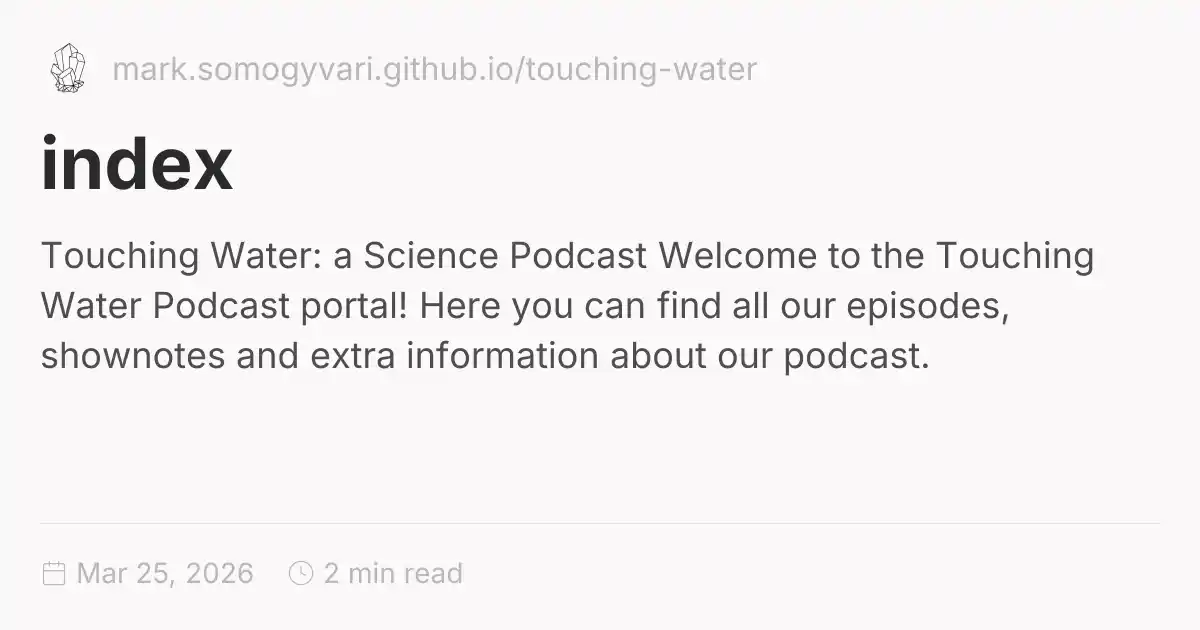
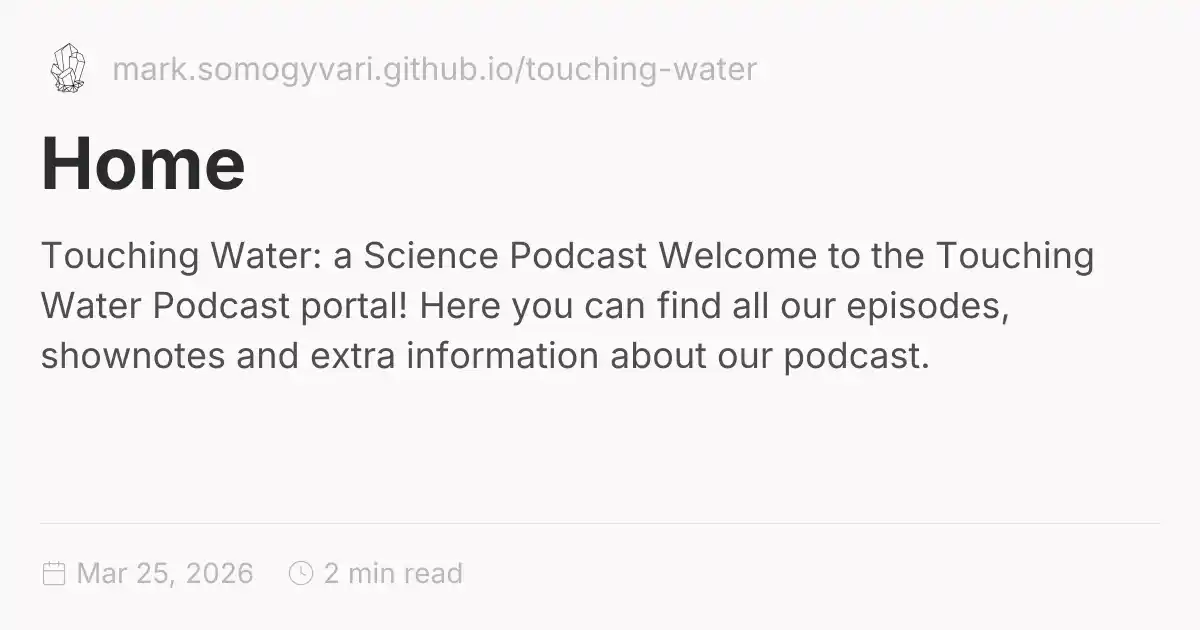
update (small)

Changed region(s): [[0.0308, 0.2111, 0.2158, 0.3016]]

diff --git a/docs/index.html b/docs/index.html
@@ -1,5 +1,5 @@
 <!DOCTYPE html>
-<html lang="en" dir="ltr"><head><title>index</title><meta charset="utf-8"/><link rel="preconnect" href="https://fonts.googleapis.com"/><link rel="preconnect" href="https://fonts.gstatic.com"/><link rel="stylesheet" href="https://fonts.googleapis.com/css2?family=Inter:wght@400;700&amp;family=Inter:ital,wght@0,400;0,600;1,400;1,600&amp;family=JetBrains Mono:wght@400;600&amp;display=swap"/><link rel="preconnect" href="https://cdnjs.cloudflare.com" crossorigin="anonymous"/><meta name="viewport" content="width=device-width, initial-scale=1.0"/><meta name="og:site_name" content="Touching Water Podcast"/><meta property="og:title" content="index"/><meta property="og:type" content="website"/><meta name="twitter:card" content="summary_large_image"/><meta name="twitter:title" content="index"/><meta name="twitter:description" content="Touching Water: a Science Podcast Welcome to the Touching Water Podcast portal! Here you can find all our episodes, shownotes and extra information about our podcast."/><meta property="og:description" content="Touching Water: a Science Podcast Welcome to the Touching Water Podcast portal! Here you can find all our episodes, shownotes and extra information about our podcast."/><meta property="og:image:alt" content="Touching Water: a Science Podcast Welcome to the Touching Water Podcast portal! Here you can find all our episodes, shownotes and extra information about our podcast."/><meta property="twitter:domain" content="mark.somogyvari.github.io/touching-water"/><meta property="og:url" content="https://mark.somogyvari.github.io/touching-water/index"/><meta property="twitter:url" content="https://mark.somogyvari.github.io/touching-water/index"/><link rel="icon" href="./static/icon.png"/><meta name="description" content="Touching Water: a Science Podcast Welcome to the Touching Water Podcast portal! Here you can find all our episodes, shownotes and extra information about our podcast."/><meta name="generator" content="Quartz"/><link href="./index.css" rel="stylesheet" type="text/css" data-persist="true"/><style>.expand-button {
+<html lang="en" dir="ltr"><head><title>Home</title><meta charset="utf-8"/><link rel="preconnect" href="https://fonts.googleapis.com"/><link rel="preconnect" href="https://fonts.gstatic.com"/><link rel="stylesheet" href="https://fonts.googleapis.com/css2?family=Inter:wght@400;700&amp;family=Inter:ital,wght@0,400;0,600;1,400;1,600&amp;family=JetBrains Mono:wght@400;600&amp;display=swap"/><link rel="preconnect" href="https://cdnjs.cloudflare.com" crossorigin="anonymous"/><meta name="viewport" content="width=device-width, initial-scale=1.0"/><meta name="og:site_name" content="Touching Water Podcast"/><meta property="og:title" content="Home"/><meta property="og:type" content="website"/><meta name="twitter:card" content="summary_large_image"/><meta name="twitter:title" content="Home"/><meta name="twitter:description" content="Touching Water: a Science Podcast Welcome to the Touching Water Podcast portal! Here you can find all our episodes, shownotes and extra information about our podcast."/><meta property="og:description" content="Touching Water: a Science Podcast Welcome to the Touching Water Podcast portal! Here you can find all our episodes, shownotes and extra information about our podcast."/><meta property="og:image:alt" content="Touching Water: a Science Podcast Welcome to the Touching Water Podcast portal! Here you can find all our episodes, shownotes and extra information about our podcast."/><meta property="twitter:domain" content="mark.somogyvari.github.io/touching-water"/><meta property="og:url" content="https://mark.somogyvari.github.io/touching-water/index"/><meta property="twitter:url" content="https://mark.somogyvari.github.io/touching-water/index"/><link rel="icon" href="./static/icon.png"/><meta name="description" content="Touching Water: a Science Podcast Welcome to the Touching Water Podcast portal! Here you can find all our episodes, shownotes and extra information about our podcast."/><meta name="generator" content="Quartz"/><link href="./index.css" rel="stylesheet" type="text/css" data-persist="true"/><style>.expand-button {
   position: absolute;
   display: flex;
   float: right;
@@ -115,7 +115,7 @@ pre:hover > .expand-button {
   padding: 0 12px;
   font-size: 14px;
 }
[2 lines of base64/hex data omitted]
 <p>Welcome to the Touching Water Podcast portal! Here you can find all our episodes, shownotes and extra information about our podcast.</p>
 <hr/>
 <p>In ‘touching water’ an anthropologist and data scientist explore water with experts who work intimately with a well-known element. From hydrologists and engineers to local water experts and urban planners, our guests reveal how different people can approach, understand, and communicate about water.<br/>

diff --git a/content/index.md b/content/index.md
@@ -1,4 +1,8 @@
 
+---
+title: Home
+---
+
 # Touching Water: a Science Podcast
 
 

diff --git a/docs/static/maps/content/index.md b/docs/static/maps/content/index.md
@@ -1,4 +1,8 @@
 
+---
+title: Home
+---
+
 # Touching Water: a Science Podcast
 
 

diff --git a/quartz/static/maps/content/index.md b/quartz/static/maps/content/index.md
@@ -1,4 +1,8 @@
 
+---
+title: Home
+---
+
 # Touching Water: a Science Podcast
 
 
